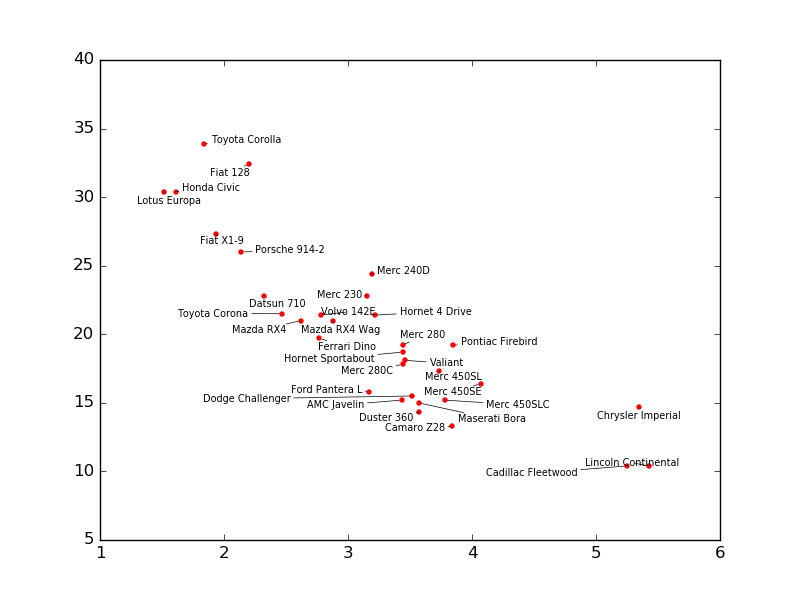
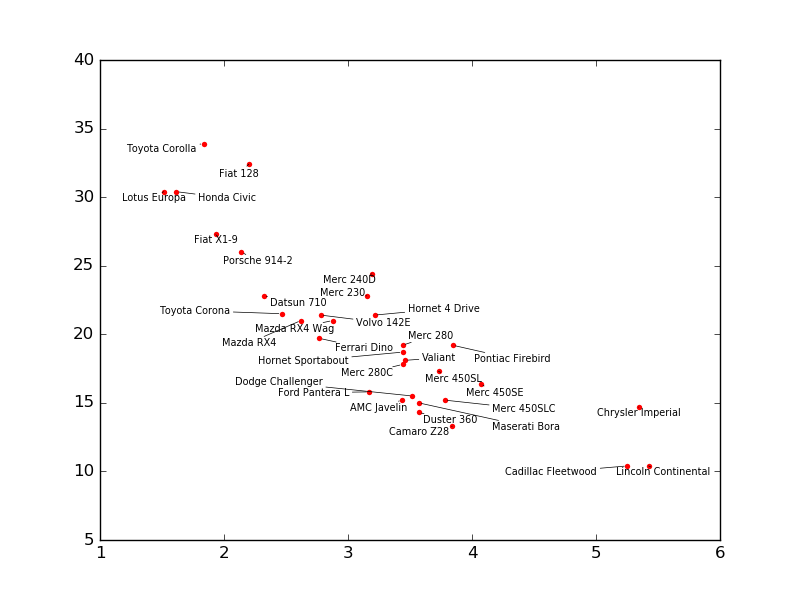
Updated examples

diff --git a/adjustText/adjustText.py b/adjustText/adjustText.py
@@ -81,8 +81,8 @@ def repel_text(texts, renderer=None, ax=None, expand=(1.2, 1.2),
     move_x = overlaps_x*overlap_directions_x
     move_y = overlaps_y*overlap_directions_y
 
-    delta_x = (move_x.sum(axis=1)-move_x.sum(axis=0))/2
-    delta_y = (move_y.sum(axis=1)-move_y.sum(axis=0))/2
+    delta_x = move_x.sum(axis=1)-move_x.sum(axis=0)
+    delta_y = move_y.sum(axis=1)-move_y.sum(axis=0)
     
     q = np.sum(np.abs(delta_x) + np.abs(delta_y))
     if move:
@@ -190,8 +190,9 @@ def pull_text_to_respective_points(x, y, texts, renderer=None, ax=None,
     return texts
 
 def adjust_text(x, y, texts, ax=None, expand_text = (1.2, 1.2),
-                expand_points=(1.2, 1.2), prefer_move = 'xy',
-                lim=100, precision=0.1, pullback_fraction=0.0,
+                expand_points=(1.2, 1.2), prefer_move = 'xy', force_text=0.5,
+                force_points=1.0, lim=100, precision=0.1,
+                pullback_fraction=0.0,
                 ha = 'center', va = 'top',
                 text_from_text=True,
                 text_from_points=True, save_steps=False, save_prefix='',
@@ -217,6 +218,10 @@ def adjust_text(x, y, texts, ax=None, expand_text = (1.2, 1.2),
             the respective point. Direction along each axis is random, thus
             introduces unpredictability (except when np.seed is set); default
             'xy'
+        force_text (float): the repel force from texts is multiplied by this
+            value; default 0.5
+        force_points (float): the repel force from points is multiplied by this
+            value; default 1.0
         lim (int): limit of number of iterations
         precision (float): up to which sum of all overlaps along both x and y
             to iterate
@@ -266,8 +271,8 @@ def adjust_text(x, y, texts, ax=None, expand_text = (1.2, 1.2),
             d_x_points, d_y_points, q1 = [0]*len(texts), [0]*len(texts), 0
         dx = np.array(d_x_text) + np.array(d_x_points)
         dy = np.array(d_y_text) + np.array(d_y_points)
-        move_texts(texts, dx, dy, bboxes = get_bboxes(texts, r, (1, 1)),
-                   ax=ax)
+        move_texts(texts, dx*force_text, dy*force_points,
+                   bboxes = get_bboxes(texts, r, (1, 1)), ax=ax)
         if save_steps:
             plt.savefig(save_prefix+str(i+1)+'.'+save_format,
                         format=save_format)
